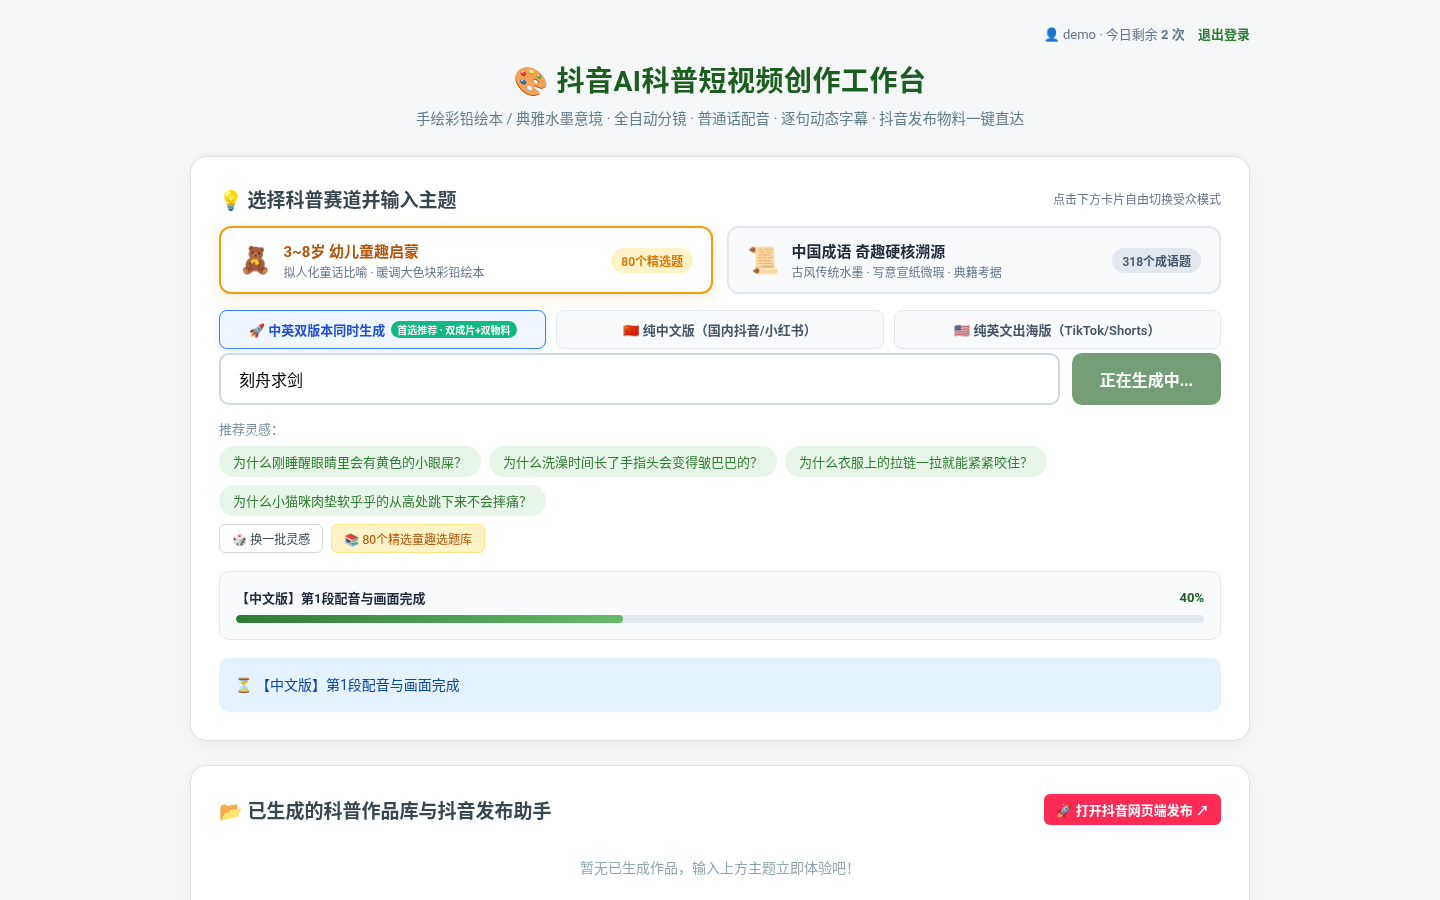
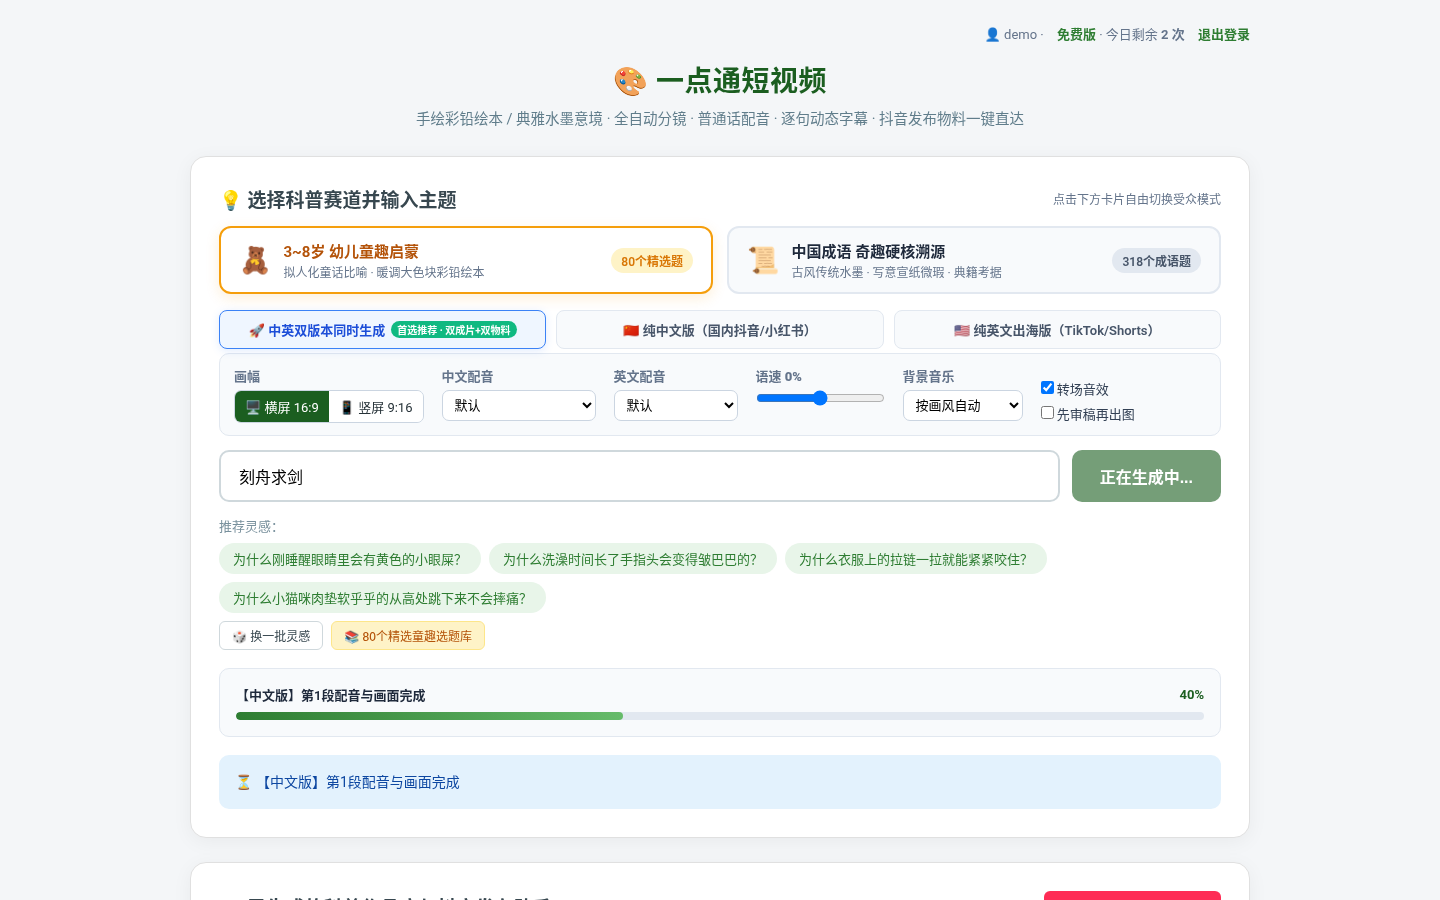
chore: rename product to 一点通短视频 (Yidiantong Shorts); update README repo URLs; retake screenshots

diff --git a/static/pricing.html b/static/pricing.html
@@ -1,5 +1,5 @@
 <!doctype html><html lang="zh-CN"><head><meta charset="utf-8"><meta name="viewport" content="width=device-width,initial-scale=1">
-<title>会员套餐 · 抖音AI科普短视频创作工作台</title>
+<title>会员套餐 · 一点通短视频</title>
 <style>
 body{margin:0;font-family:"PingFang SC","Microsoft YaHei","Noto Sans CJK SC",sans-serif;background:#F4F7F5;color:#1E293B}
 .top{display:flex;justify-content:space-between;align-items:center;padding:14px 24px;background:#fff;border-bottom:1px solid #E2E8F0}
@@ -14,7 +14,7 @@ h1{text-align:center;margin:0 0 6px}.sub{text-align:center;color:#64748B;margin-
 .me{background:#fff;border-radius:12px;padding:14px 18px;margin-bottom:22px;border:1px solid #E2E8F0;font-size:14px}
 .note{margin-top:26px;font-size:13px;color:#64748B;line-height:1.8;background:#fff;border-radius:12px;padding:14px 18px;border:1px solid #E2E8F0}
 </style></head><body>
-<div class="top"><a href="/">🎨 抖音AI科普短视频创作工作台</a><a href="/">← 返回工作台</a></div>
+<div class="top"><a href="/">🎨 一点通短视频</a><a href="/">← 返回工作台</a></div>
 <div class="wrap">
   <h1>💎 会员套餐</h1><div class="sub">按需选择，开通后立即提升每日生成次数</div>
   <div class="me" id="me">加载中...</div>

diff --git a/static/admin.html b/static/admin.html
@@ -3,7 +3,7 @@
 <head>
   <meta charset="utf-8">
   <meta name="viewport" content="width=device-width, initial-scale=1">
-  <title>用户管理 · 抖音AI科普短视频创作工作台</title>
+  <title>用户管理 · 一点通短视频</title>
   <style>
     :root {
       --primary: #2E7D32;
@@ -181,7 +181,7 @@
   <!-- 顶部状态栏 -->
   <div class="top-nav">
     <div class="nav-brand">
-      🎨 抖音AI科普短视频创作工作台 <span>用户与配额管理</span>
+      🎨 一点通短视频 <span>用户与配额管理</span>
     </div>
     <a href="/" class="btn-back">← 返回创作工作台</a>
   </div>

diff --git a/static/index.html b/static/index.html
@@ -3,7 +3,7 @@
 <head>
   <meta charset="UTF-8">
   <meta name="viewport" content="width=device-width, initial-scale=1.0">
-  <title>抖音AI科普短视频创作工作台</title>
+  <title>一点通短视频</title>
   <style>
     :root {
       --bg: #F4F6F8;
@@ -587,7 +587,7 @@
 
   <div class="container">
     <div class="header">
-      <h1>🎨 抖音AI科普短视频创作工作台</h1>
+      <h1>🎨 一点通短视频</h1>
       <p>手绘彩铅绘本 / 典雅水墨意境 · 全自动分镜 · 普通话配音 · 逐句动态字幕 · 抖音发布物料一键直达</p>
     </div>
 

diff --git a/static/login.html b/static/login.html
@@ -3,7 +3,7 @@
 <head>
   <meta charset="utf-8">
   <meta name="viewport" content="width=device-width, initial-scale=1">
-  <title>登录 / 注册 · 抖音AI科普短视频创作工作台</title>
+  <title>登录 / 注册 · 一点通短视频</title>
   <style>
     :root {
       --primary: #2E7D32;
@@ -156,7 +156,7 @@
 </head>
 <body>
   <div class="header-box">
-    <h1>🎨 抖音AI科普短视频创作工作台</h1>
+    <h1>🎨 一点通短视频</h1>
     <p>全自动分镜 · 智能配音合成 · 抖音发布物料一键直达</p>
   </div>
 

diff --git a/app.py b/app.py
@@ -18,7 +18,7 @@ COOKIE_SECURE = os.getenv("COOKIE_SECURE", "0") == "1"
 LOGIN_MAX, LOGIN_WINDOW = int(os.getenv("LOGIN_MAX_ATTEMPTS", "10")), int(os.getenv("LOGIN_WINDOW_SEC", "900"))
 COOKIE = "session"
 
-app = FastAPI(title="成语/科普 短视频生成器")
+app = FastAPI(title="一点通短视频")
 Q = queue.Queue(); LOCK = threading.Lock()
 
 def db():

diff --git a/README.md b/README.md
@@ -1,6 +1,6 @@
 <div align="center">
 
-# 🎨 成语·科普 AI 短视频工作台
+# 🎨 一点通短视频（Yidiantong Shorts）
 
 **输入一个成语或科普问题，一键生成约 1 分钟的配音字幕短视频，并同时产出中文版 + 英文出海版和抖音 / TikTok 发布文案。**
 
@@ -88,8 +88,8 @@ brew install ffmpeg-full
 ### 2. 安装
 
 ```bash
-git clone https://github.com/zhanglongAa520/idiom-video-app.git
-cd idiom-video-app
+git clone https://github.com/zhanglongAa520/yidiantong-video.git
+cd yidiantong-video
 python3 -m venv .venv && source .venv/bin/activate
 pip install fastapi uvicorn requests edge-tts pillow bcrypt
 ```
@@ -195,9 +195,9 @@ chmod +x run.sh && ./run.sh      # 默认 http://localhost:8080
 
    ```ini
    [Service]
-   WorkingDirectory=/var/www/idiom-video-app
-   EnvironmentFile=/var/www/idiom-video-app/.env
-   ExecStart=/var/www/idiom-video-app/.venv/bin/uvicorn app:app --host 127.0.0.1 --port 8080
+   WorkingDirectory=/var/www/yidiantong-video
+   EnvironmentFile=/var/www/yidiantong-video/.env
+   ExecStart=/var/www/yidiantong-video/.venv/bin/uvicorn app:app --host 127.0.0.1 --port 8080
    Restart=always
    ```
 
@@ -223,7 +223,7 @@ chmod +x run.sh && ./run.sh      # 默认 http://localhost:8080
 
 ## 🌏 English
 
-**Idiom & Science AI Short-Video Studio** — type a Chinese idiom or a science question and get a ~1-minute, 1280×720 narrated, subtitled video, in a **Chinese version and an English version for global platforms**, plus ready-to-paste Douyin / TikTok titles, descriptions and hashtags.
+**Yidiantong Shorts (一点通短视频)** — type a Chinese idiom or a science question and get a ~1-minute, 1280×720 narrated, subtitled video, in a **Chinese version and an English version for global platforms**, plus ready-to-paste Douyin / TikTok titles, descriptions and hashtags.
 
 **Features**
 - Automatic pipeline: script → illustrations → narration → Ken Burns motion + burned-in subtitles (FFmpeg).
@@ -242,7 +242,7 @@ chmod +x run.sh && ./run.sh      # 默认 http://localhost:8080
 **Quick start**
 ```bash
 sudo apt install -y ffmpeg fonts-noto-cjk python3-venv
-git clone https://github.com/zhanglongAa520/idiom-video-app.git && cd idiom-video-app
+git clone https://github.com/zhanglongAa520/yidiantong-video.git && cd yidiantong-video
 python3 -m venv .venv && source .venv/bin/activate
 pip install fastapi uvicorn requests edge-tts pillow bcrypt
 echo "ADMIN_USERNAME=admin" > .env && echo "ADMIN_PASSWORD=change-me" >> .env
